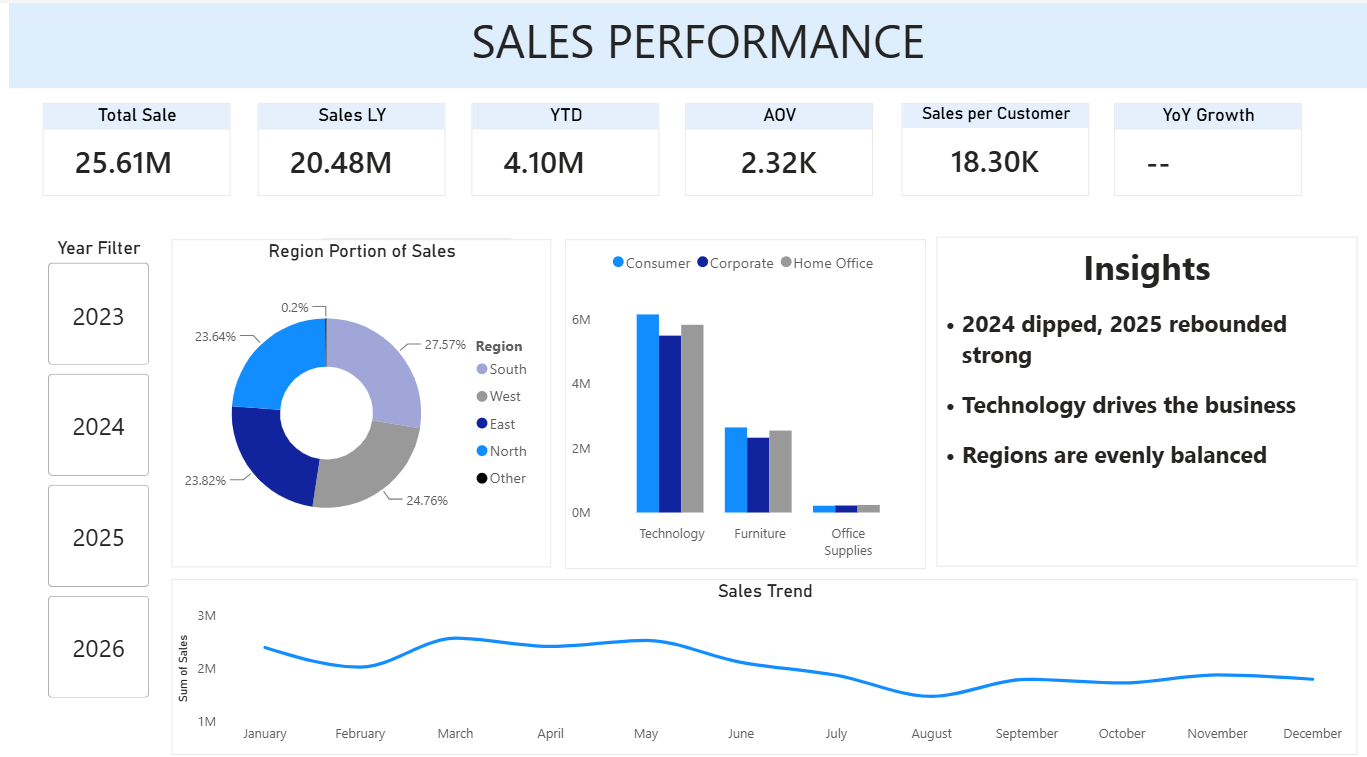
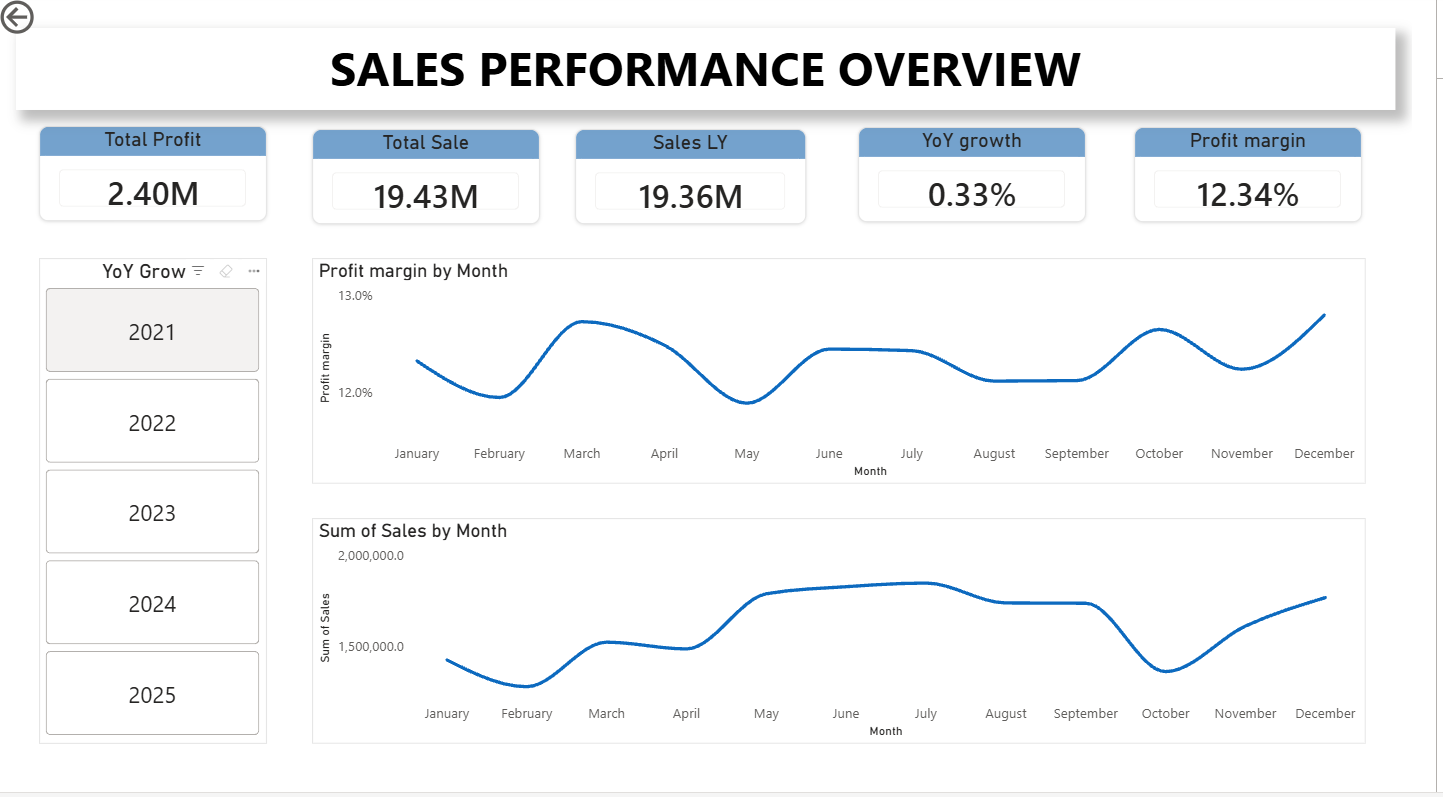
Update README and screenshots for the new two-page Power BI dashboard
- Replace Dashboard.png with the Sales Performance Overview page
- Add Dashboard-Distribution.png (Sales Distribution page)
- Replace Star Schema.png with the current three-table Power BI model
- Rewrite README around the new dashboard, add live dashboard link,
  and document known limitations (region pie, YoY, UNKNOWN_ZIP)

Claude-Session: https://claude.ai/code/session_01AkR7kpE3CmVWJXCfKcyXrd

diff --git a/README.md b/README.md
@@ -1,51 +1,65 @@
 # Sales Performance Dashboard
 
-An end-to-end Business Intelligence project built on **Superstore Sales** data, using **SQL Server** and **Power BI** to design a dimensional data warehouse and deliver an interactive sales analytics dashboard.
+An end-to-end Business Intelligence project on deliberately messy Superstore-style sales data. I cleaned and modeled the data in **SQL Server** and built a two-page interactive **Power BI** report on top of it.
+
+**[▶ Open the live interactive dashboard](https://app.powerbi.com/view?r=eyJrIjoiMDFhODc4NTItYjhmYy00Y2MyLTgzZjctM2EzNjBlZGE1MGIzIiwidCI6ImY1MmYyMTgzLTlmNjctNGFkMi1iNjU2LTZmNzU0ZmUxOTZjYiIsImMiOjZ9)**: use the year slicer and click the charts to filter the report.
 
 ---
 
 ## 🎯 Business Question
 
-Where do sales come from, by region, category and customer segment, and how is performance trending year over year? The source data is deliberately messy, so the first question is whether it can be trusted at all.
+Where do sales and profit come from, by month, city and region, and is the business growing year over year? The source data is deliberately messy, so the first question is whether it can be trusted at all.
 
 ---
 
-## 🔍 Key Findings
+## 📊 Dashboard
 
-- **Sales are concentrated in the West, not evenly spread.** When region is derived from State, the West accounts for about 39% of sales, and California alone for about 26%. South follows at about 25%, and East, Central and North are about 11–12% each.
-- **The source data's own Region field is unreliable.** Every state appears under every region label in roughly equal numbers, so any analysis based on that field shows a false "evenly balanced" picture (see Known Limitations).
----
+### Page 1: Sales Performance Overview
 
-## 📊 Dashboard Preview
+![Sales Performance Overview](Dashboard.png)
 
-![Dashboard](Dashboard.png)
+KPI cards for Total Profit, Total Sale, Sales LY, YoY growth and Profit margin, a year slicer, and monthly trend lines for profit margin and for sales.
 
----
+### Page 2: Sales Distribution
 
-## 🗄 Star Schema
+![Sales Distribution](Dashboard-Distribution.png)
 
-![Star Schema](Star%20Schema.png)
+Total sale by city and total profit by region.
 
 ---
 
-## 📐 Architecture
+## 🔍 What the Dashboard Shows
 
-The data warehouse follows a **star schema** consisting of one fact table and five dimensions.
+Figures below are read from the screenshots above.
 
-| Object | Type | Description |
-|--------|------|-------------|
-| `FactSales` | Fact Table | Stores sales transactions and measures |
-| `DimDate` | Dimension | Role-playing date dimension built from `Order_Date`, `Ship_Date`, and `Date_Entry` |
-| `DimCustomer` | Dimension | Customer information |
-| `DimProduct` | Dimension | Product details |
-| `DimTerritory` | Dimension | Regional sales hierarchy |
-| `DimOrder` | Dimension | Order-level attributes linked by `Order_ID` |
-
-`DimDate` is implemented as a **single-column role-playing dimension** using a `UNION` of **Order_Date**, **Ship_Date**, and **Date_Entry**, allowing all date filtering to be handled through one centralized date table.
+- **Headline numbers:** 19.43M in sales, 2.40M in profit, a 12.34% profit margin.
+- **Margin is steady.** The monthly profit margin stays between roughly 11.9% and 12.9% all year, lowest in May and highest in March and December.
+- **Sales have a clear seasonal shape.** Monthly sales dip to roughly 1.3M in February and October and peak at roughly 1.8M around June and July.
+- **Chicago is the biggest city by sales** at roughly 3.2M, followed by Los Angeles at roughly 2.5M. The other six cities in the chart are close together at roughly 2.0M to 2.4M.
 
 ---
 
-## 🔍 Data Quality & Modeling Challenges
+## 🗄 Data Model
+
+![Power BI data model](Star%20Schema.png)
+
+The report model has one fact table and two dimensions: `FactSales`, `DimDate` and `DimTerritory`. It is a subset of the warehouse that `Table script.sql` builds:
+
+| Object | Type | Description | Used in report |
+|--------|------|-------------|----------------|
+| `FactSales` | Fact Table | Sales transactions and measures | Yes |
+| `DimDate` | Dimension | Role-playing date dimension built from `Order_Date`, `Ship_Date`, and `Date_Entry` | Yes |
+| `DimTerritory` | Dimension | City, state, postal code and region | Yes |
+| `DimCustomer` | Dimension | Customer information | No |
+| `DimProduct` | Dimension | Product details | No |
+| `DimOrder` | Dimension | Order-level attributes linked by `Order_ID` | No |
+| `DimShipment` | Dimension | Ship modes | No |
+
+`DimDate` is a **single-column role-playing dimension** built with a `UNION` of **Order_Date**, **Ship_Date**, and **Date_Entry**, so all date filtering goes through one date table.
+
+---
+
+## 🧹 Data Quality & Modeling Challenges
 
 ### Data cleaning summary
 
@@ -61,7 +75,7 @@ The raw extract has 16,000 rows. Issues found and handled in `Table script.sql`:
 | Unparseable or out-of-range dates (e.g. year 1900 / 2099) | 31 | `TRY_CAST`; excluded from the date dimension |
 | Region labelled `UNKNOWN_SYSTEM_VAL` | 2,394 | Region re-derived from State |
 
-### **Unreliable Source Region Field**
+### Unreliable Source Region Field
 
 **Problem**
 
@@ -69,51 +83,24 @@ Cross-tabulating State against the source `Region` column showed that every stat
 
 **Solution**
 
-Region is derived from State in `DimTerritory` instead of trusting the source field. This changes the conclusion: sales are concentrated in the West (~39%) rather than evenly balanced.
+`DimTerritory` derives Region from State in the SQL script instead of trusting the source field. The published report has not picked this up yet (see Known Limitations).
 
 ---
 
-### **$353K Sales Reconciliation Gap**
+### Issues from the earlier six-table version of the model
 
-**Problem**
+These were found and fixed on an earlier version of the report that also used `DimCustomer`, `DimProduct` and `DimOrder`.
 
-Dashboard totals did not match the regional sales breakdown.
+**$353K sales reconciliation gap.** Dashboard totals did not match the regional sales breakdown. Blank (`''`) Region values were not captured by the existing `NULL` check, so the fallback logic failed. Applying `NULLIF()` made blank strings and `NULL` values behave the same way.
 
-**Root Cause**
+**Ambiguous model relationship.** `FactSales` and `DimOrder` were related through both `Order_ID` and `Order_Date`, creating multiple filter paths. Removing `Order_Date` from `DimOrder` left `Order_ID` as the single key.
 
-Blank (`''`) Region values were not captured by the existing `NULL` check, causing the fallback logic to fail.
-
-**Solution**
-
-Applied `NULLIF()` so both blank strings and `NULL` values are handled consistently.
-
----
-
-### **Ambiguous Model Relationship**
-
-**Problem**
-
-`FactSales` and `DimOrder` were related through both `Order_ID` and `Order_Date`, creating multiple filter paths.
-
-**Solution**
-
-Removed `Order_Date` from `DimOrder`, leaving `Order_ID` as the single relationship key.
-
----
-
-### **Year-over-Year Growth Measure**
-
-**Problem**
-
-Without a year filter, the YoY measure compared four years of pooled sales against three years of prior-period data due to `SAMEPERIODLASTYEAR()`.
-
-**Solution**
-
-Added a `HASONEVALUE()` guard so YoY calculations only execute when a single year is selected.
+**Year-over-year growth measure.** Without a year filter, `SAMEPERIODLASTYEAR()` compared pooled sales from all selected years against pooled prior-period sales. A `HASONEVALUE()` guard made the measure only calculate when a single year is selected.
 
 ---
 
 ## ⚠ Known Limitations
 
-- **Dashboard region chart:** the "Region Portion of Sales" donut and the "Regions are evenly balanced" insight in the screenshot are based on the unreliable source Region field. The chart is being switched to the State-derived region from `DimTerritory`, which shows sales concentrated in the West.
-- **Partial final year:** the dataset contains only partial data for **2026** (through approximately July/August). As a result, Year-over-Year comparisons for 2026 understate performance because the year is incomplete rather than reflecting a true decline.
+- **Region chart:** the "Total Profit by Region" pie still shows the source field's `UNKNOWN_SYSTEM_VAL` value as a slice (about 27% of profit), so it has not picked up the State-derived Region from the SQL script. Until `DimTerritory` is reloaded from the script, read the region split as unreliable.
+- **Year-over-year growth:** YoY growth and Sales LY depend on the year slicer. Read them with a single year selected.
+- **Unknown postal codes:** `DimTerritory` keeps one row per postal code, so every `UNKNOWN_ZIP` order is assigned to the same single city and state.
